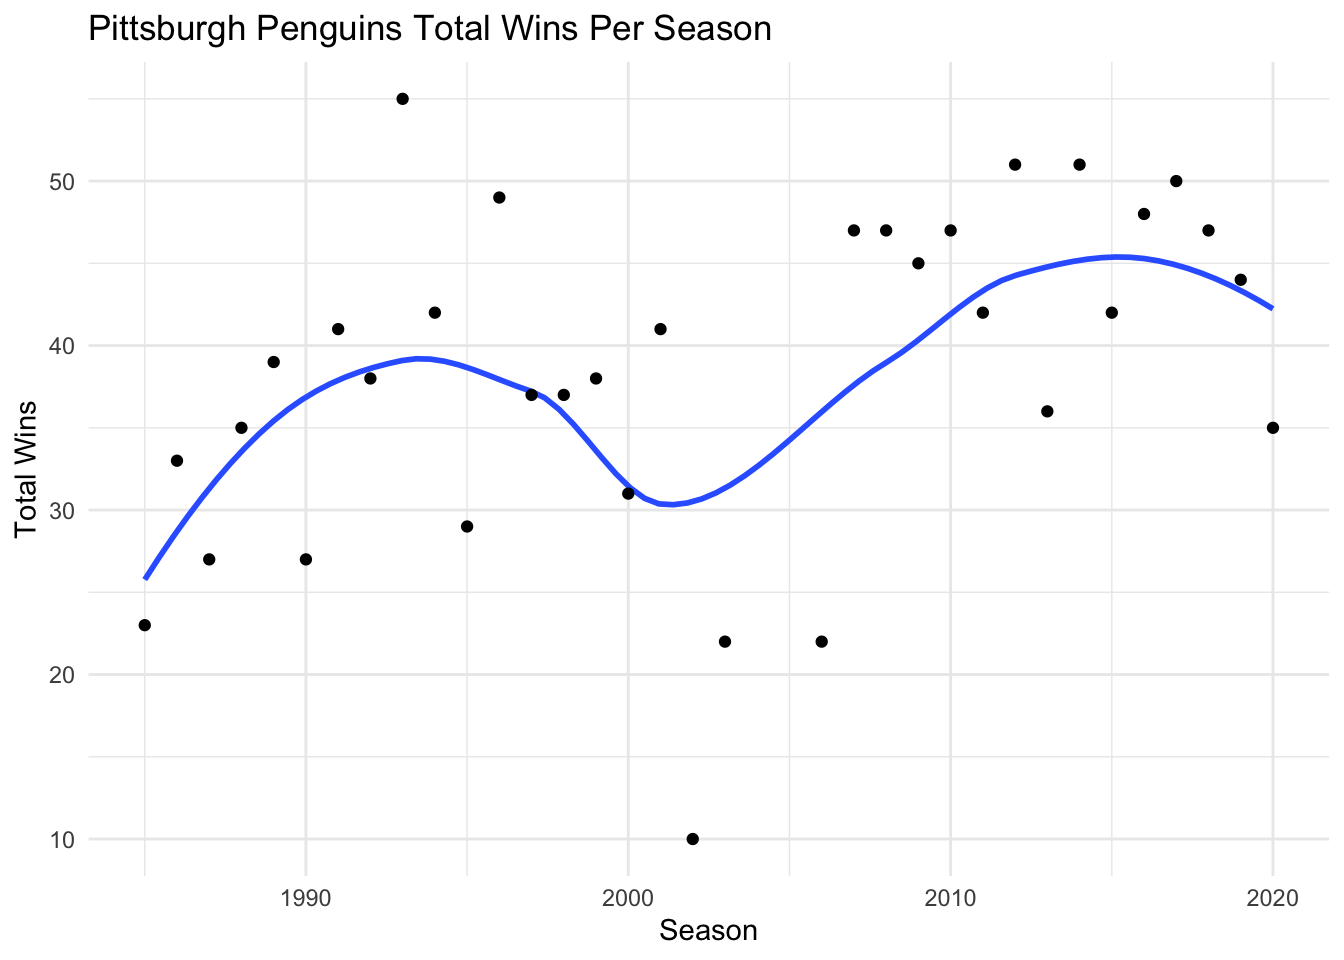
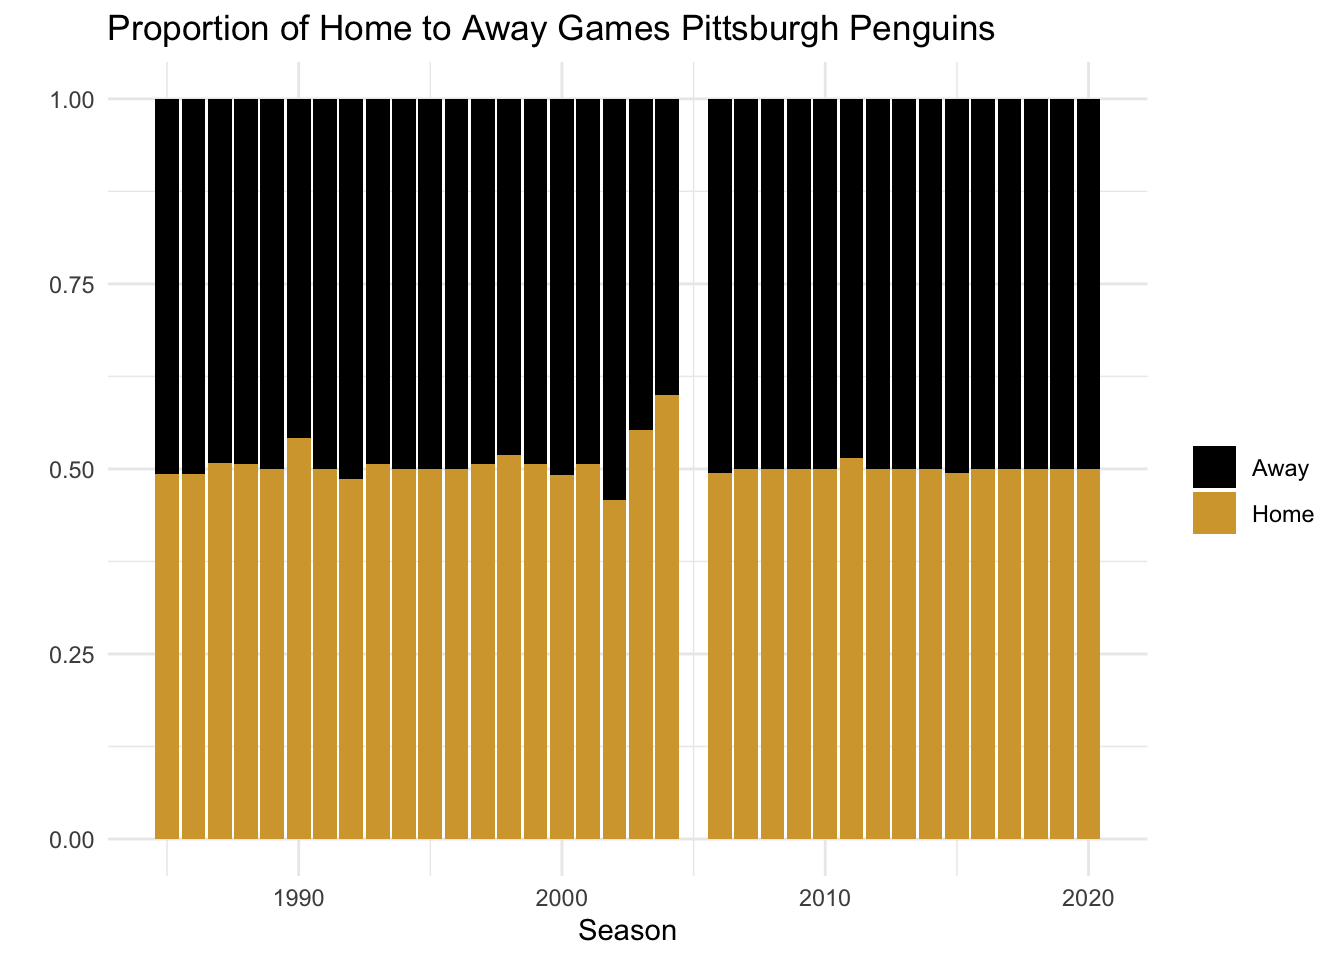
oct 28 7:30

diff --git a/docs/Simulation_Study.html b/docs/Simulation_Study.html
@@ -347,11 +347,14 @@ pre > code.sourceCode > span > a:first-child::before { text-decoration: underlin
     <h2 id="toc-title">On this page</h2>
    
   <ul>
-  <li><a href="#libraries" id="toc-libraries" class="nav-link active" data-scroll-target="#libraries">Libraries</a></li>
+  <li><a href="#introduction" id="toc-introduction" class="nav-link active" data-scroll-target="#introduction">Introduction</a></li>
+  <li><a href="#libraries" id="toc-libraries" class="nav-link" data-scroll-target="#libraries">Libraries</a></li>
   <li><a href="#import-data" id="toc-import-data" class="nav-link" data-scroll-target="#import-data">Import Data</a></li>
   <li><a href="#data-manipulaton" id="toc-data-manipulaton" class="nav-link" data-scroll-target="#data-manipulaton">Data Manipulaton</a></li>
   <li><a href="#preliminary-data-visualizations" id="toc-preliminary-data-visualizations" class="nav-link" data-scroll-target="#preliminary-data-visualizations">Preliminary Data Visualizations</a></li>
   <li><a href="#permutation" id="toc-permutation" class="nav-link" data-scroll-target="#permutation">Permutation</a></li>
+  <li><a href="#h₀-sampling-distribution" id="toc-h₀-sampling-distribution" class="nav-link" data-scroll-target="#h₀-sampling-distribution">H₀ Sampling Distribution</a></li>
+  <li><a href="#conclusion" id="toc-conclusion" class="nav-link" data-scroll-target="#conclusion">Conclusion</a></li>
   </ul>
 </nav>
     </div>
@@ -362,7 +365,7 @@ pre > code.sourceCode > span > a:first-child::before { text-decoration: underlin
 <header id="title-block-header" class="quarto-title-block default">
 <div class="quarto-title">
 <h1 class="title">Pittsburgh Penguin Proportion Permutation</h1>
-<p class="subtitle lead">Understanding Home-Ice Advantage</p>
+<p class="subtitle lead">Understanding Home-Ice Advantage In NHL Games Using Penguins Data</p>
 </div>
 
 
@@ -391,7 +394,11 @@ pre > code.sourceCode > span > a:first-child::before { text-decoration: underlin
 </header>
 
 
-<p><img src="penguin.jpg" class="img-fluid"> Picture from <a href="https://www.pensburgh.com/analysis/68323/the-five-biggest-surprises-of-the-pittsburgh-penguins-season-so-far">Pensburgh</a> ### Introduction We investigated whether the Pittsburgh Penguins’ have a home ice advantage using a permutation test. Our outcome is game result (W/L), and our explanatory variable is location of the game (Home/Away). We first summarized the observed home–away difference. Then we simulated the null by shuffling the location labels. Finally we compared the observed statistic to the null distribution to assess significance.</p>
+<p><img src="penguin.jpg" class="img-fluid"> Picture from <a href="https://www.pensburgh.com/analysis/68323/the-five-biggest-surprises-of-the-pittsburgh-penguins-season-so-far">Pensburgh</a></p>
+<section id="introduction" class="level3">
+<h3 class="anchored" data-anchor-id="introduction">Introduction</h3>
+<p>We investigated whether the Pittsburgh Penguins’ have a home-ice advantage using a permutation test. Our outcome is game result (W/L), and our explanatory variable is location of the game (Home/Away). We attempted to model the existence of home-ice advantage on NHL games. For the purpose of the project, we looked only at the Pittsburgh Penguins. According to our expertise, the Penguins generally represent an average NHL team. Also, this is a shoutout to the palmer penguins package. We first summarized the observed home–away difference. Then we simulated the null by shuffling the location labels. Finally we compared the observed statistic to the null distribution to assess significance.</p>
+</section>
 <section id="libraries" class="level3">
 <h3 class="anchored" data-anchor-id="libraries">Libraries</h3>
 <p>The following are the libraries that were used in this permutation test.</p>
@@ -438,7 +445,7 @@ pre > code.sourceCode > span > a:first-child::before { text-decoration: underlin
 </section>
 <section id="preliminary-data-visualizations" class="level3">
 <h3 class="anchored" data-anchor-id="preliminary-data-visualizations">Preliminary Data Visualizations</h3>
-<p>We included this graph below to illustrate the proportion of home to away games for the Pittsburgh Penguins in a given season. The reason we felt the need to perform this task is because we wanted to make sure that there was not a disproportionate percent of home or away games that would affect their win totals and/or percentages.</p>
+<p>We included this graph below to illustrate the proportion of home to away games for the Pittsburgh Penguins in a given season. The reason we felt the need to perform this task is because we wanted to make sure that there was not a disproportionate percent of home or away games over time that would affect their win totals and/or percentages.</p>
 <div class="cell">
 <div class="code-copy-outer-scaffold"><div class="sourceCode cell-code" id="cb5"><pre class="sourceCode r code-with-copy"><code class="sourceCode r"><span id="cb5-1"><a href="#cb5-1" aria-hidden="true" tabindex="-1"></a>pit <span class="sc">|&gt;</span></span>
 <span id="cb5-2"><a href="#cb5-2" aria-hidden="true" tabindex="-1"></a>  <span class="fu">group_by</span>(season, location) <span class="sc">|&gt;</span></span>
@@ -455,7 +462,7 @@ pre > code.sourceCode > span > a:first-child::before { text-decoration: underlin
 <div class="cell-output-display">
 <div>
 <figure class="figure">
-<p><img src="Simulation_Study_files/figure-html/unnamed-chunk-5-1.png" class="img-fluid figure-img" width="672"></p>
+<p><img src="Simulation_Study_files/figure-html/unnamed-chunk-4-1.png" class="img-fluid figure-img" width="672"></p>
 </figure>
 </div>
 </div>
@@ -480,7 +487,7 @@ pre > code.sourceCode > span > a:first-child::before { text-decoration: underlin
 <div class="cell-output-display">
 <div>
 <figure class="figure">
-<p><img src="Simulation_Study_files/figure-html/unnamed-chunk-6-1.png" class="img-fluid figure-img" width="672"></p>
+<p><img src="Simulation_Study_files/figure-html/unnamed-chunk-5-1.png" class="img-fluid figure-img" width="672"></p>
 </figure>
 </div>
 </div>
@@ -488,7 +495,7 @@ pre > code.sourceCode > span > a:first-child::before { text-decoration: underlin
 </section>
 <section id="permutation" class="level3">
 <h3 class="anchored" data-anchor-id="permutation">Permutation</h3>
-<p>However, we elected to perform a permutation to confirm that the team being at home leads to a higher percent of winning overall in comparison to playing away. Our null hypothesis was that the proportion of wins at home and away is equal. Below we calculated our sample statistic. Our sample statistic was the difference between the home and away win proportions. In other words, proportion of wins at home subtracted by proportion of wins away.</p>
+<p>We elected to perform a permutation test to confirm that the team being at home leads to a higher percent of winning overall in comparison to playing away. Our null hypothesis was that the proportion of wins at home and away is equal. To make it more clear, the null hypothesis (H₀) is that the proportion of wins at home and away are equal for NHL games (no home-ice advantage). The alternative hypothesis (H₁) is that the proportion of wins at home is greater than the proportion of wins away for NHL games. Below we calculated our sample statistic which was only the Pittsburgh Penguins (1984-2020) to generalize a home-ice advantage. Our sample statistic was the difference between the home and away win proportions. In other words, proportion of wins at home subtracted by proportion of wins away.</p>
 <div class="cell">
 <div class="code-copy-outer-scaffold"><div class="sourceCode cell-code" id="cb7"><pre class="sourceCode r code-with-copy"><code class="sourceCode r"><span id="cb7-1"><a href="#cb7-1" aria-hidden="true" tabindex="-1"></a>sample_statistics <span class="ot">&lt;-</span> pit <span class="sc">|&gt;</span></span>
 <span id="cb7-2"><a href="#cb7-2" aria-hidden="true" tabindex="-1"></a>  <span class="fu">group_by</span>(location) <span class="sc">|&gt;</span></span>
@@ -502,70 +509,62 @@ pre > code.sourceCode > span > a:first-child::before { text-decoration: underlin
 <pre><code>[1] 0.1533897</code></pre>
 </div>
 </div>
-<p>To see if we are to reject the null at a population level, we randomly shuffled location. We did this to simulate what outcomes would look like if location assignments were random. This is because if there was no home advantage, the difference in win proportions after random shuffling should still be ~0.</p>
+<p>To create a null hypothesis sampling distribution, we randomly shuffled our Penguins location data. We did this to simulate what outcomes would look like if location assignments were random. We want to test whether there is a home-ice advantage by randomly shuffling the “Home” and “Away” labels and recalculating the difference between the shuffle and the sample value each time. The <code>perm_stat</code> function performed this permutation.</p>
 <div class="cell">
-<div class="code-copy-outer-scaffold"><div class="sourceCode cell-code" id="cb9"><pre class="sourceCode r code-with-copy"><code class="sourceCode r"><span id="cb9-1"><a href="#cb9-1" aria-hidden="true" tabindex="-1"></a>pit <span class="sc">|&gt;</span></span>
-<span id="cb9-2"><a href="#cb9-2" aria-hidden="true" tabindex="-1"></a>  <span class="fu">ungroup</span>() <span class="sc">|&gt;</span></span>
-<span id="cb9-3"><a href="#cb9-3" aria-hidden="true" tabindex="-1"></a>  <span class="fu">mutate</span>(<span class="at">location_perm =</span> <span class="fu">sample</span>(location)) <span class="sc">|&gt;</span></span>
-<span id="cb9-4"><a href="#cb9-4" aria-hidden="true" tabindex="-1"></a>  <span class="fu">group_by</span>(location_perm) <span class="sc">|&gt;</span></span>
-<span id="cb9-5"><a href="#cb9-5" aria-hidden="true" tabindex="-1"></a>  <span class="fu">summarize</span>(<span class="at">prop_of_wins =</span> <span class="fu">mean</span>(outcome <span class="sc">==</span> <span class="st">"W"</span>)) <span class="sc">|&gt;</span></span>
-<span id="cb9-6"><a href="#cb9-6" aria-hidden="true" tabindex="-1"></a>  <span class="fu">pivot_wider</span>(<span class="at">names_from =</span> location_perm,</span>
-<span id="cb9-7"><a href="#cb9-7" aria-hidden="true" tabindex="-1"></a>              <span class="at">values_from =</span> prop_of_wins) <span class="sc">|&gt;</span></span>
-<span id="cb9-8"><a href="#cb9-8" aria-hidden="true" tabindex="-1"></a>  <span class="fu">mutate</span>(<span class="at">diff =</span> Home <span class="sc">-</span> Away) <span class="sc">|&gt;</span></span>
-<span id="cb9-9"><a href="#cb9-9" aria-hidden="true" tabindex="-1"></a>  <span class="fu">pull</span>(diff)</span></code></pre></div><button title="Copy to Clipboard" class="code-copy-button"><i class="bi"></i></button></div>
-<div class="cell-output cell-output-stdout">
-<pre><code>[1] 0.02599602</code></pre>
+<div class="code-copy-outer-scaffold"><div class="sourceCode cell-code" id="cb9"><pre class="sourceCode r code-with-copy"><code class="sourceCode r"><span id="cb9-1"><a href="#cb9-1" aria-hidden="true" tabindex="-1"></a>perm_stat <span class="ot">&lt;-</span> <span class="cf">function</span>(x){</span>
+<span id="cb9-2"><a href="#cb9-2" aria-hidden="true" tabindex="-1"></a>  pit <span class="sc">|&gt;</span></span>
+<span id="cb9-3"><a href="#cb9-3" aria-hidden="true" tabindex="-1"></a>    <span class="fu">ungroup</span>() <span class="sc">|&gt;</span></span>
+<span id="cb9-4"><a href="#cb9-4" aria-hidden="true" tabindex="-1"></a>    <span class="fu">mutate</span>(<span class="at">location_perm =</span> <span class="fu">sample</span>(location)) <span class="sc">|&gt;</span></span>
+<span id="cb9-5"><a href="#cb9-5" aria-hidden="true" tabindex="-1"></a>    <span class="fu">group_by</span>(location_perm) <span class="sc">|&gt;</span></span>
+<span id="cb9-6"><a href="#cb9-6" aria-hidden="true" tabindex="-1"></a>    <span class="fu">summarize</span>(<span class="at">prop_of_wins =</span> <span class="fu">mean</span>(outcome <span class="sc">==</span> <span class="st">"W"</span>)) <span class="sc">|&gt;</span></span>
+<span id="cb9-7"><a href="#cb9-7" aria-hidden="true" tabindex="-1"></a>    <span class="fu">pivot_wider</span>(<span class="at">names_from =</span> location_perm,</span>
+<span id="cb9-8"><a href="#cb9-8" aria-hidden="true" tabindex="-1"></a>                <span class="at">values_from =</span> prop_of_wins) <span class="sc">|&gt;</span></span>
+<span id="cb9-9"><a href="#cb9-9" aria-hidden="true" tabindex="-1"></a>    <span class="fu">mutate</span>(<span class="at">diff =</span> Home <span class="sc">-</span> Away) <span class="sc">|&gt;</span></span>
+<span id="cb9-10"><a href="#cb9-10" aria-hidden="true" tabindex="-1"></a>    <span class="fu">pull</span>(diff)</span>
+<span id="cb9-11"><a href="#cb9-11" aria-hidden="true" tabindex="-1"></a>  </span>
+<span id="cb9-12"><a href="#cb9-12" aria-hidden="true" tabindex="-1"></a>}</span></code></pre></div><button title="Copy to Clipboard" class="code-copy-button"><i class="bi"></i></button></div>
 </div>
-</div>
-<p>As previously stated, we want to test whether there is a home-ice advantage by randomly shuffling the “Home” and “Away” labels and recalculating the difference between the shuffle and the sample value each time. The perm_stat() function performed this permutation.</p>
+<p>We then repeated this process many times to create a null hypothesis sampling distribution. So I used <code>map_dbl()</code>. We ran the function 2,000 times and stored each simulated difference in a numeric vector. With this we were able to build a null distribution to compare against the observed difference.</p>
 <div class="cell">
-<div class="code-copy-outer-scaffold"><div class="sourceCode cell-code" id="cb11"><pre class="sourceCode r code-with-copy"><code class="sourceCode r"><span id="cb11-1"><a href="#cb11-1" aria-hidden="true" tabindex="-1"></a>perm_stat <span class="ot">&lt;-</span> <span class="cf">function</span>(x){</span>
-<span id="cb11-2"><a href="#cb11-2" aria-hidden="true" tabindex="-1"></a>  pit <span class="sc">|&gt;</span></span>
-<span id="cb11-3"><a href="#cb11-3" aria-hidden="true" tabindex="-1"></a>    <span class="fu">ungroup</span>() <span class="sc">|&gt;</span></span>
-<span id="cb11-4"><a href="#cb11-4" aria-hidden="true" tabindex="-1"></a>    <span class="fu">mutate</span>(<span class="at">location_perm =</span> <span class="fu">sample</span>(location)) <span class="sc">|&gt;</span></span>
-<span id="cb11-5"><a href="#cb11-5" aria-hidden="true" tabindex="-1"></a>    <span class="fu">group_by</span>(location_perm) <span class="sc">|&gt;</span></span>
-<span id="cb11-6"><a href="#cb11-6" aria-hidden="true" tabindex="-1"></a>    <span class="fu">summarize</span>(<span class="at">prop_of_wins =</span> <span class="fu">mean</span>(outcome <span class="sc">==</span> <span class="st">"W"</span>)) <span class="sc">|&gt;</span></span>
-<span id="cb11-7"><a href="#cb11-7" aria-hidden="true" tabindex="-1"></a>    <span class="fu">pivot_wider</span>(<span class="at">names_from =</span> location_perm,</span>
-<span id="cb11-8"><a href="#cb11-8" aria-hidden="true" tabindex="-1"></a>                <span class="at">values_from =</span> prop_of_wins) <span class="sc">|&gt;</span></span>
-<span id="cb11-9"><a href="#cb11-9" aria-hidden="true" tabindex="-1"></a>    <span class="fu">mutate</span>(<span class="at">diff =</span> Home <span class="sc">-</span> Away) <span class="sc">|&gt;</span></span>
-<span id="cb11-10"><a href="#cb11-10" aria-hidden="true" tabindex="-1"></a>    <span class="fu">pull</span>(diff)</span>
-<span id="cb11-11"><a href="#cb11-11" aria-hidden="true" tabindex="-1"></a>  </span>
-<span id="cb11-12"><a href="#cb11-12" aria-hidden="true" tabindex="-1"></a>}</span></code></pre></div><button title="Copy to Clipboard" class="code-copy-button"><i class="bi"></i></button></div>
+<div class="code-copy-outer-scaffold"><div class="sourceCode cell-code" id="cb10"><pre class="sourceCode r code-with-copy"><code class="sourceCode r"><span id="cb10-1"><a href="#cb10-1" aria-hidden="true" tabindex="-1"></a>perm_stat_list <span class="ot">&lt;-</span> <span class="fu">map_dbl</span>(<span class="dv">1</span><span class="sc">:</span><span class="dv">2000</span>, perm_stat)</span>
+<span id="cb10-2"><a href="#cb10-2" aria-hidden="true" tabindex="-1"></a>perm_df <span class="ot">&lt;-</span> <span class="fu">data.frame</span>(<span class="at">perms =</span> perm_stat_list)</span></code></pre></div><button title="Copy to Clipboard" class="code-copy-button"><i class="bi"></i></button></div>
 </div>
-<p>However, we wanted to repeat this process many times so I used map_dbl(). We ran the function 2,000 times and stored each simulated difference in a numeric vector. With this we were able to build a null distribution to compare against the observed difference.</p>
+</section>
+<section id="h₀-sampling-distribution" class="level3">
+<h3 class="anchored" data-anchor-id="h₀-sampling-distribution">H₀ Sampling Distribution</h3>
 <div class="cell">
-<div class="code-copy-outer-scaffold"><div class="sourceCode cell-code" id="cb12"><pre class="sourceCode r code-with-copy"><code class="sourceCode r"><span id="cb12-1"><a href="#cb12-1" aria-hidden="true" tabindex="-1"></a>perm_stat_list <span class="ot">&lt;-</span> <span class="fu">map_dbl</span>(<span class="dv">1</span><span class="sc">:</span><span class="dv">2000</span>, perm_stat)</span>
-<span id="cb12-2"><a href="#cb12-2" aria-hidden="true" tabindex="-1"></a>perm_df <span class="ot">&lt;-</span> <span class="fu">data.frame</span>(<span class="at">perms =</span> perm_stat_list)</span></code></pre></div><button title="Copy to Clipboard" class="code-copy-button"><i class="bi"></i></button></div>
-</div>
-<div class="cell">
-<div class="code-copy-outer-scaffold"><div class="sourceCode cell-code" id="cb13"><pre class="sourceCode r code-with-copy"><code class="sourceCode r"><span id="cb13-1"><a href="#cb13-1" aria-hidden="true" tabindex="-1"></a>perm_df <span class="sc">|&gt;</span></span>
-<span id="cb13-2"><a href="#cb13-2" aria-hidden="true" tabindex="-1"></a>  <span class="fu">ggplot</span>(<span class="fu">aes</span>(<span class="at">x =</span> perms)) <span class="sc">+</span></span>
-<span id="cb13-3"><a href="#cb13-3" aria-hidden="true" tabindex="-1"></a>  <span class="fu">geom_histogram</span>(<span class="at">fill =</span> <span class="st">"black"</span>) <span class="sc">+</span></span>
-<span id="cb13-4"><a href="#cb13-4" aria-hidden="true" tabindex="-1"></a>  <span class="fu">geom_vline</span>(<span class="at">xintercept =</span> sample_statistics, <span class="at">color =</span> <span class="st">"#d6a53a"</span>, </span>
-<span id="cb13-5"><a href="#cb13-5" aria-hidden="true" tabindex="-1"></a>             <span class="at">linewidth =</span> <span class="fl">1.2</span>, <span class="at">linetype =</span> <span class="st">"dashed"</span>)<span class="sc">+</span></span>
-<span id="cb13-6"><a href="#cb13-6" aria-hidden="true" tabindex="-1"></a>  <span class="fu">labs</span>(<span class="at">title =</span> <span class="st">"Null Distribution of the Home–Away Win Proportion Difference"</span>,</span>
-<span id="cb13-7"><a href="#cb13-7" aria-hidden="true" tabindex="-1"></a>       <span class="at">subtitle =</span> <span class="st">"Dashed Gold Line Is The Sample Statistic"</span>,</span>
-<span id="cb13-8"><a href="#cb13-8" aria-hidden="true" tabindex="-1"></a>       <span class="at">x =</span> <span class="st">"Difference of the Proportion of Wins and Losses (Home - Away)"</span>,</span>
-<span id="cb13-9"><a href="#cb13-9" aria-hidden="true" tabindex="-1"></a>       <span class="at">y =</span> <span class="st">"Number of Simulations"</span>) <span class="sc">+</span></span>
-<span id="cb13-10"><a href="#cb13-10" aria-hidden="true" tabindex="-1"></a>  <span class="fu">theme_minimal</span>()</span></code></pre></div><button title="Copy to Clipboard" class="code-copy-button"><i class="bi"></i></button></div>
+<div class="code-copy-outer-scaffold"><div class="sourceCode cell-code" id="cb11"><pre class="sourceCode r code-with-copy"><code class="sourceCode r"><span id="cb11-1"><a href="#cb11-1" aria-hidden="true" tabindex="-1"></a>perm_df <span class="sc">|&gt;</span></span>
+<span id="cb11-2"><a href="#cb11-2" aria-hidden="true" tabindex="-1"></a>  <span class="fu">ggplot</span>(<span class="fu">aes</span>(<span class="at">x =</span> perms)) <span class="sc">+</span></span>
+<span id="cb11-3"><a href="#cb11-3" aria-hidden="true" tabindex="-1"></a>  <span class="fu">geom_histogram</span>(<span class="at">fill =</span> <span class="st">"black"</span>) <span class="sc">+</span></span>
+<span id="cb11-4"><a href="#cb11-4" aria-hidden="true" tabindex="-1"></a>  <span class="fu">geom_vline</span>(<span class="at">xintercept =</span> sample_statistics, <span class="at">color =</span> <span class="st">"#d6a53a"</span>, </span>
+<span id="cb11-5"><a href="#cb11-5" aria-hidden="true" tabindex="-1"></a>             <span class="at">linewidth =</span> <span class="fl">1.2</span>, <span class="at">linetype =</span> <span class="st">"dashed"</span>)<span class="sc">+</span></span>
+<span id="cb11-6"><a href="#cb11-6" aria-hidden="true" tabindex="-1"></a>  <span class="fu">labs</span>(<span class="at">title =</span> <span class="st">"Null Distribution of the Home–Away Win Proportion Difference"</span>,</span>
+<span id="cb11-7"><a href="#cb11-7" aria-hidden="true" tabindex="-1"></a>       <span class="at">subtitle =</span> <span class="st">"Dashed Gold Line Is The Sample Statistic"</span>,</span>
+<span id="cb11-8"><a href="#cb11-8" aria-hidden="true" tabindex="-1"></a>       <span class="at">x =</span> <span class="st">"Difference of the Proportion of Wins and Losses (Home - Away)"</span>,</span>
+<span id="cb11-9"><a href="#cb11-9" aria-hidden="true" tabindex="-1"></a>       <span class="at">y =</span> <span class="st">"Number of Simulations"</span>) <span class="sc">+</span></span>
+<span id="cb11-10"><a href="#cb11-10" aria-hidden="true" tabindex="-1"></a>  <span class="fu">theme_minimal</span>()</span></code></pre></div><button title="Copy to Clipboard" class="code-copy-button"><i class="bi"></i></button></div>
 <div class="cell-output-display">
 <div>
 <figure class="figure">
-<p><img src="Simulation_Study_files/figure-html/unnamed-chunk-11-1.png" class="img-fluid figure-img" width="672"></p>
+<p><img src="Simulation_Study_files/figure-html/unnamed-chunk-9-1.png" class="img-fluid figure-img" width="672"></p>
 </figure>
 </div>
 </div>
 </div>
 <p>The plot above showed that most simulated win-proportion differences is near zero. These values are typical if there’s no home-ice advantage. The dashed gold line, the sample statistic, is far to the right of the null distribution. Because such the extreme value is unlikely to occur by random chance, it can be inferred that playing at home increases the proportion of winning. This graph implies a true home-ice advantage.</p>
 <div class="cell">
-<div class="code-copy-outer-scaffold"><div class="sourceCode cell-code" id="cb14"><pre class="sourceCode r code-with-copy"><code class="sourceCode r"><span id="cb14-1"><a href="#cb14-1" aria-hidden="true" tabindex="-1"></a>perm_df <span class="sc">|&gt;</span></span>
-<span id="cb14-2"><a href="#cb14-2" aria-hidden="true" tabindex="-1"></a><span class="fu">summarize</span>(<span class="at">p_value =</span> <span class="fu">mean</span>(perm_df <span class="sc">&gt;=</span> sample_statistics))</span></code></pre></div><button title="Copy to Clipboard" class="code-copy-button"><i class="bi"></i></button></div>
+<div class="code-copy-outer-scaffold"><div class="sourceCode cell-code" id="cb12"><pre class="sourceCode r code-with-copy"><code class="sourceCode r"><span id="cb12-1"><a href="#cb12-1" aria-hidden="true" tabindex="-1"></a>perm_df <span class="sc">|&gt;</span></span>
+<span id="cb12-2"><a href="#cb12-2" aria-hidden="true" tabindex="-1"></a><span class="fu">summarize</span>(<span class="at">p_value =</span> <span class="fu">mean</span>(perm_df <span class="sc">&gt;=</span> sample_statistics))</span></code></pre></div><button title="Copy to Clipboard" class="code-copy-button"><i class="bi"></i></button></div>
 <div class="cell-output cell-output-stdout">
 <pre><code>  p_value
 1       0</code></pre>
 </div>
 </div>
-<p>A p-value of 0 suggests that none of the 2,000 random permutations produced a difference at least as large as the observed one. This indicates the observed home–away win difference was very unlikely to occur by chance. This provided strong evidence of a home-ice advantage. The permutation test showed that location of the game has a statistically significant effect on winning. ### Conclusion The observed home–away win proportion difference lies in the extreme tail of the null distribution (two-sided p &lt; 0.001). This indicates the difference is unlikely under the null. We reject the null. This supports a real home-ice advantage. Results are robust to randomization with 2,000 permutations. Future work could adjust for opponent strength in a given season.</p>
+<p>A p-value of 0 suggests that none of the 2,000 random permutations produced a difference at least as large as the observed one. This indicates the observed home–away win difference was very unlikely to occur by chance. This provided strong evidence of a home-ice advantage. The permutation test showed that location of the game has a statistically significant effect on winning.</p>
+</section>
+<section id="conclusion" class="level3">
+<h3 class="anchored" data-anchor-id="conclusion">Conclusion</h3>
+<p>The observed home–away win proportion difference lies in the extreme tail of the null distribution (two-sided p &lt; 0.001). This indicates the difference is unlikely under the null. We reject the null. This supports a real home-ice advantage. Results are robust to randomization with 2,000 permutations. Future work could adjust for opponent strength in a given season.</p>
 
 
 </section>
